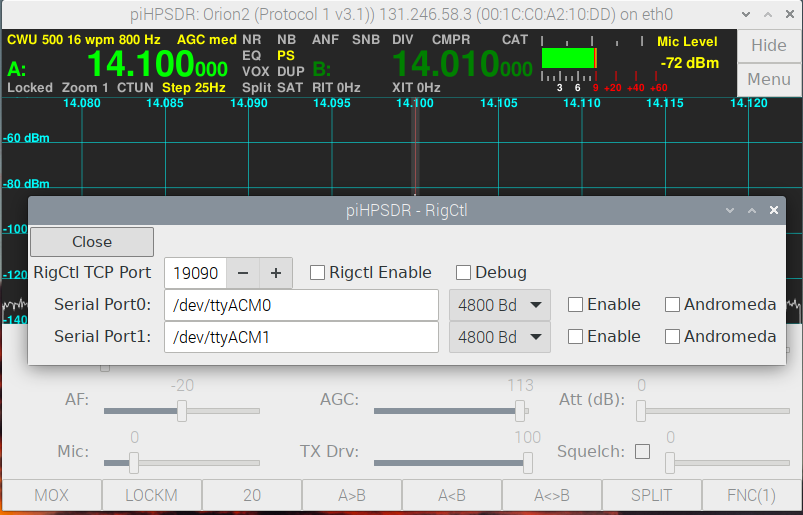
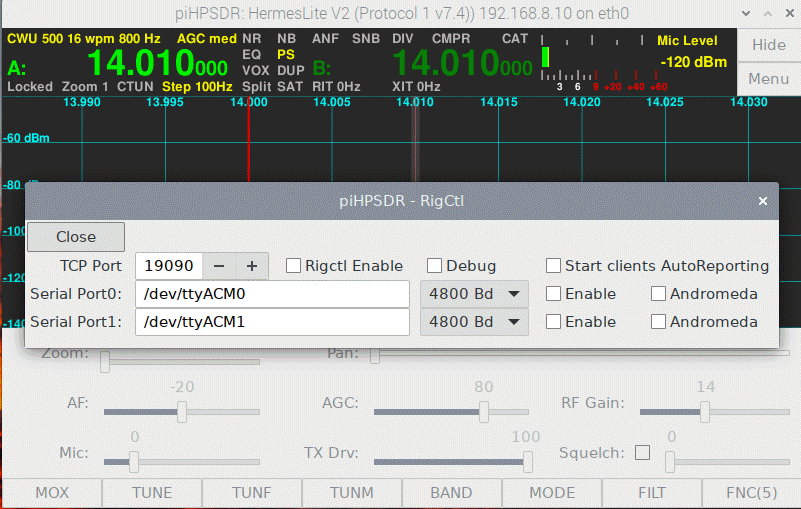
Updated manual (RigCtl auto-reporting, DHCP server setup)

diff --git a/release/LatexManual/piHPSDR-Manual.tex b/release/LatexManual/piHPSDR-Manual.tex
@@ -2892,7 +2892,7 @@ adapted to piHPSDR. The \bltt{RigCtl} menu is shown in Fig. \ref{fig:RigCtlMenu}
 \label{fig:RigCtlMenu}
 \end{figure}
 
-\rett{RigCtl TCP Port}. This sets the TCP port number for CAT connection to TCP. The default value (19090)
+\rett{TCP Port}. This sets the TCP port number for CAT connection to TCP. The default value (19090)
 is rather standard,
 using another one is only necessary if you are running more than one SDR program on the host computer at the
 same time.
@@ -2913,6 +2913,17 @@ the preferences
 are stored. This checkbox is only of interest for software developers to analyze programming or connection
 errors, and should
 not be checked for normal use.
+
+\rett{Start clients AutoReporting}. CAT clients can enable and disable an \textit{auto reporting} mode
+for their connection. In this mode, VFO-A and VFO-B frequency are periodically reported to the client,
+if they have changed since the last report. External hardware such as tuners or amplifiers sometimes
+use this feature. Unfortunately, there is such hardware which
+depends on such unsolicited frequency reporting messages \textit{without} explicitly requesting
+auto reporting. This checkbox, if checked, circumvents problems with such hardware by putting
+all new CAT connections into auto reporting mode. Clients that do not like auto reporting can then
+switch auto reporting off, and this then only applies to that client. For example the piHPSDR backend
+of the hamlib rig control library disables auto reporting (,,\texttt{AI0;}'' command) when it connects to piHPSDR
+and will thus not be affected by this checkbox.
 
 \rett{Serial Port}. In this text field, enter the device name of the serial port or the named pipe to use.
 Which names to use
@@ -5787,71 +5798,54 @@ and now it should contain an IP address in the ,,eth0'' field (look for ,,inet 1
 The DHCP server software is not installed on a ,,virgin'' RaspPi OS, therefore install it with the
 command (you need internet connection to do so)
 
-\grtt{sudo apt-get install isc-dhcp-server}
+\grtt{sudo apt-get install kea-dhcp4-server}
 
-(a few more packages that are needed for the DHCP server are installed as well). The output of the
-command will end with an error message. In my view it is a bug, but installing the DHCP server will
-also try to start it, which is not possible at the moment since we need to provide some information
-first. As a first step, you have to modify two lines in
-the file \texttt{/etc/default/isc-dhcp-server}  by
-executing the command
+(a few more packages that are needed for the DHCP server are installed as well).
+It is a bit difficult to manually configure the DHCP server, so just edit
+the relevant configuration file with the command
 
-\grtt{sudo nano /etc/default/isc-dhcp-server}
+\grtt{sudo nano /etc/kea/kea-dhcp4.conf}
 
-\begin{itemize}
-\item{Locate the line (in my case, the fourth line) reading \\
-\texttt{\#DHCPDv4\_CONF=/etc/dhcp/dhcpd.conf} \\
-and activate this line by removing the first character (the number sign).}
-\item{Locate the line (in my case, the second-last one) reading \\
-\texttt{INTERFACESv4=""}\\
-and change it such that it reads \texttt{INTERFACESv4="eth0"} (the last character
-of the interface name eth0 is a zero).}
-\end{itemize}
-
-The second step is then to provide some information in the configuration file
-of the DHCP daemon,
-and to this end, edit the file using the command
-
-\grtt{sudo nano /etc/dhcp/dhcpd.conf}
-
+There is extensive explanation in this file (mostly comments). 
+Delete everything that is in there
+and replace it with the contents given at the top of the next page.
+The file contents is placed at the beginning of the page. It it placed
+there and does not look very readable, since all blank lines have 
+been removed and all lines start at the left margin. This is so to make
+it easier to drag-and-drop it directly from  the PDF manual file
+into the configuration file. Start copy-pasting with the very first
+opening curly brace and end it with the very last curly brace!
 \clearpage
-This is a very large file, and most of its contents are comments (the lines starting with
-a number sign). So it is easiest to delete everything that is there in this file and replace
-it with
 
 \begin{verbatim}
-default-lease-time 99999;
-max-lease-time 99999;
-
-subnet 192.168.8.0 netmask 255.255.255.0 {
-   range 192.168.8.10 192.168.8.30;
+{
+"Dhcp4": {
+"valid-lifetime": 99999,
+"interfaces-config": {
+"interfaces": [ "eth0/192.168.8.1" ]
+},
+"lease-database": {
+"type": "memfile",
+"lfc-interval": 3600
+},
+"subnet4": [{
+"subnet": "192.168.8.0/24",
+"pools": [{ "pool": "192.168.8.10 - 192.168.8.30" }]
+}]
+}
 }
 \end{verbatim}
 
-After making the changes to the two files, \texttt{/etc/default/isc-dhcp-server} and
-\texttt{/etc/dhcp/dhcpd.conf}, you should again reboot the RaspPi. After rebooting,
-you can check the status
-of the DCHP server with the command
+After changing the configuration file and rebooting, the status of the DHCP server
+can be checked with the command
 
-\grtt{systemctl status isc-dhcp-server}
+\grtt{systemctl status kea-dhcp4-server}
 
-and the output of this commmand should indicate that the DCHP server is active and running.
-
-
-From now on, each time the RaspPi is
-started, the network interface is configured and the DHCP server is started. If you then
-connect (or power up) the radio, then the radio should get a valid IP address and 
-pihpsdr ,,finds'' the radio. Some radios try to get a DHCP address only once upon powering up,
-for these radios it is important to boot the RaspPi first, and power up the radio only after
-the RaspPi operating system is up and running.
-
-In this example, the IP addresses given by the DHCP server have been restricted to the range 192.168.8.10
-through 192.168.8.30. Normally the DHCP server will assign the first one first, so expect that your radio,
-when you start piHPSDR, is ,,discovered'' with IP address 192.168.8.10.
-
+and this should indicate that the DHCP server is active and running.
 
 %%%%%%%%%%%%%%%%%%%%%%%%%%%%%%%%%%%%%%%%%%%%%%%%%%%%%%%%%%%%%%%%%%%%%%%%%%%%%%%%%%%%%%%%%%%%%%%%%%%%%%%%%%%%
 %%%%%%%%%%%%%%%%%%%%%%%%%%%%%%%%%%%%%%%%%%%%%%%%%%%%%%%%%%%%%%%%%%%%%%%%%%%%%%%%%%%%%%%%%%%%%%%%%%%%%%%%%%%%
+\clearpage
 \begin{center}
 \fbox{
 \parbox{\textwidth - 4cm}{
